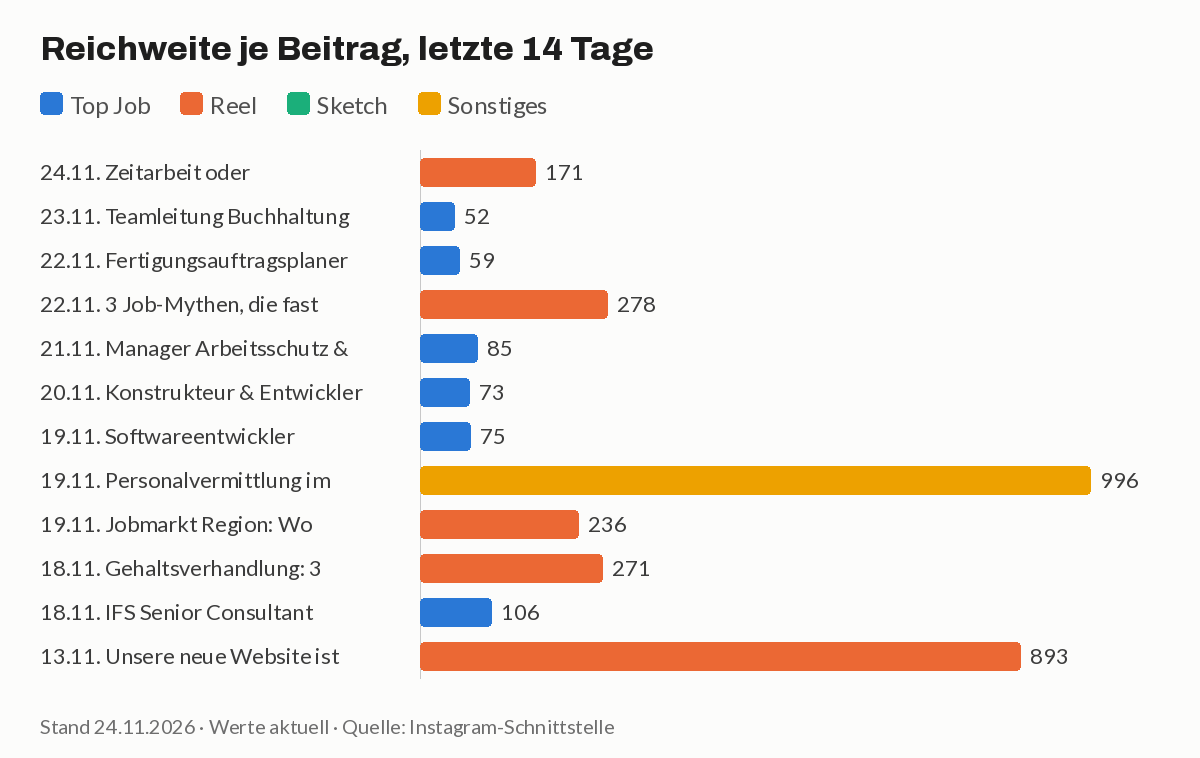
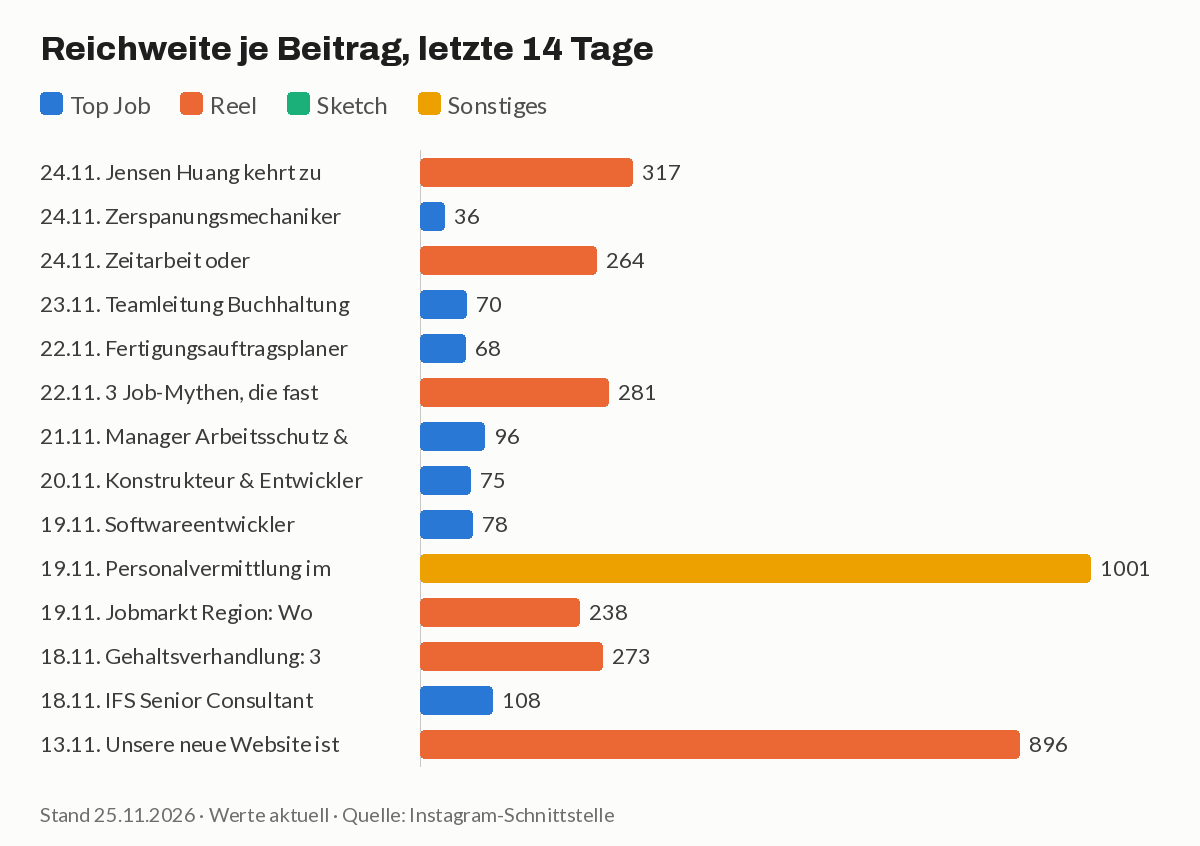
Statistik: Auswertung 2026-11-25

diff --git a/data/statistik/zusammenfassung.md b/data/statistik/zusammenfassung.md
@@ -1,33 +1,35 @@
-# Instagram-Auswertung, Stand 24.11.2026
+# Instagram-Auswertung, Stand 25.11.2026
 
-Follower: 934 (7 Tage: +0)
+Follower: 933 (7 Tage: -1)
 
 ## Warnungen
-- 23.11.: Top Job um 19:03 statt 18:50.
+- 24.11.: Reel um 19:15 statt 07:30.
 
 ## Beiträge der letzten 14 Tage (Werte aktuell)
 
 | Datum | Format | Titel | Likes | Komm. | Reichw. | Aufrufe | Geteilt | Gespeich. | Sehdauer s |
 |---|---|---|---|---|---|---|---|---|---|
-| 24.11. 07:30 | Reel | Zeitarbeit oder Direktvermittlung wo | 3 | 0 | 171 | 207 | 7 | 2 | 4.7 |
-| 23.11. 19:03 | Top Job | Teamleitung Buchhaltung (m/w/d) in | 4 | 0 | 52 | 134 | 0 | 1 | – |
-| 22.11. 18:50 | Top Job | Fertigungsauftragsplaner Logistik | 3 | 0 | 59 | 163 | 0 | 3 | – |
-| 22.11. 17:00 | Reel | 3 Job-Mythen, die fast jeder glaubt | 3 | 0 | 278 | 360 | 0 | 3 | 5.1 |
-| 21.11. 18:50 | Top Job | Manager Arbeitsschutz & Fachkraft für | 4 | 0 | 85 | 226 | 0 | 2 | – |
-| 20.11. 19:10 | Top Job | Konstrukteur & Entwickler (m/w/d) in | 4 | 0 | 73 | 195 | 2 | 1 | – |
-| 19.11. 19:41 | Top Job | Softwareentwickler Testsysteme und | 4 | 0 | 75 | 193 | 0 | 0 | – |
-| 19.11. 09:51 | Sonstiges | Personalvermittlung im Game-Modus: | 25 | 1 | 996 | 1687 | 3 | 2 | 10.2 |
-| 19.11. 07:29 | Reel | Jobmarkt Region: Wo Fachkräfte gerade | 5 | 0 | 236 | 366 | 1 | 3 | 4.3 |
-| 18.11. 14:39 | Reel | Gehaltsverhandlung: 3 Fehler, die dich | 3 | 0 | 271 | 420 | 0 | 0 | 5.7 |
-| 18.11. 11:32 | Top Job | IFS Senior Consultant (m/w/d) in Bad | 1 | 0 | 106 | 290 | 0 | 0 | – |
-| 13.11. 19:32 | Reel | Unsere neue Website ist Live. Schaut | 30 | 0 | 893 | 1594 | 4 | 0 | 12.3 |
+| 24.11. 19:15 | Reel | Jensen Huang kehrt zu NVIDIA zurück. | 9 | 1 | 317 | 419 | 1 | 1 | 8.6 |
+| 24.11. 18:50 | Top Job | Zerspanungsmechaniker (m/w/d) in | 1 | 0 | 36 | 99 | 0 | 0 | – |
+| 24.11. 07:30 | Reel | Zeitarbeit oder Direktvermittlung wo | 5 | 0 | 264 | 328 | 7 | 3 | 4.6 |
+| 23.11. 19:03 | Top Job | Teamleitung Buchhaltung (m/w/d) in | 4 | 0 | 70 | 162 | 0 | 1 | – |
+| 22.11. 18:50 | Top Job | Fertigungsauftragsplaner Logistik | 3 | 0 | 68 | 179 | 0 | 3 | – |
+| 22.11. 17:00 | Reel | 3 Job-Mythen, die fast jeder glaubt | 4 | 0 | 281 | 370 | 0 | 3 | 5.1 |
+| 21.11. 18:50 | Top Job | Manager Arbeitsschutz & Fachkraft für | 4 | 0 | 96 | 245 | 0 | 2 | – |
+| 20.11. 19:10 | Top Job | Konstrukteur & Entwickler (m/w/d) in | 4 | 0 | 75 | 202 | 2 | 1 | – |
+| 19.11. 19:41 | Top Job | Softwareentwickler Testsysteme und | 4 | 0 | 78 | 198 | 0 | 0 | – |
+| 19.11. 09:51 | Sonstiges | Personalvermittlung im Game-Modus: | 25 | 1 | 1001 | 1696 | 3 | 2 | 10.2 |
+| 19.11. 07:29 | Reel | Jobmarkt Region: Wo Fachkräfte gerade | 5 | 0 | 238 | 371 | 1 | 3 | 4.3 |
+| 18.11. 14:39 | Reel | Gehaltsverhandlung: 3 Fehler, die dich | 3 | 0 | 273 | 424 | 0 | 0 | 5.7 |
+| 18.11. 11:32 | Top Job | IFS Senior Consultant (m/w/d) in Bad | 1 | 0 | 108 | 293 | 0 | 0 | – |
+| 13.11. 19:32 | Reel | Unsere neue Website ist Live. Schaut | 30 | 0 | 896 | 1597 | 4 | 0 | 12.3 |
 
 ## Durchschnitt nach Format (letzte 30 Tage, Werte nach Tag 3 bzw. aktuell)
 
 | Format | Beiträge | Likes | Komm. | Reichw. | Geteilt/Reichw. | Likes/Reichw. |
 |---|---|---|---|---|---|---|
-| Top Job | 6 | 3.3 | 0 | 65 | 0.0 % | 5.1 % |
-| Reel | 5 | 8.8 | 0 | 224 | 1.6 % | 3.9 % |
+| Top Job | 7 | 3 | 0 | 68 | 0.0 % | 4.4 % |
+| Reel | 6 | 9.3 | 0.2 | 287 | 0.9 % | 3.2 % |
 | Sonstiges | 1 | 25 | 1 | – | – % | – % |
 
 ## Beste und schwächste Beiträge (30 Tage)
@@ -35,12 +37,12 @@ Follower: 934 (7 Tage: +0)
 - Top: 2026-11-13 Reel – Unsere neue Website ist Live. Schaut auf jeden
 - Top: 2026-11-19 Sonstiges – Personalvermittlung im Game-Modus: Mission
 - Top: 2026-11-19 Reel – Jobmarkt Region: Wo Fachkräfte gerade die besten
+- Schwach: 2026-11-24 Top Job – Zerspanungsmechaniker (m/w/d) in Titisee 50.000
 - Schwach: 2026-11-22 Reel – 3 Job-Mythen, die fast jeder glaubt und was
-- Schwach: 2026-11-21 Top Job – Manager Arbeitsschutz & Fachkraft für
-- Schwach: 2026-11-23 Top Job – Teamleitung Buchhaltung (m/w/d) in Titisee 60.000
+- Schwach: 2026-11-24 Reel – Jensen Huang kehrt zu NVIDIA zurück. Aber nur weil
 
 ## Wochentag (Likes im Schnitt, 30 Tage)
 
-Mo: 4.0 · Di: 3.0 · Mi: 2.0 · Do: 11.3 · Fr: 17.0 · Sa: 4.0 · So: 3.0
+Mo: 4.0 · Di: 5.0 · Mi: 2.0 · Do: 11.3 · Fr: 17.0 · Sa: 4.0 · So: 3.5
 
-Rohdaten verschlüsselt in data/statistik/daten.enc · Abruf 2026-11-24 10:29 UTC
+Rohdaten verschlüsselt in data/statistik/daten.enc · Abruf 2026-11-25 06:13 UTC
